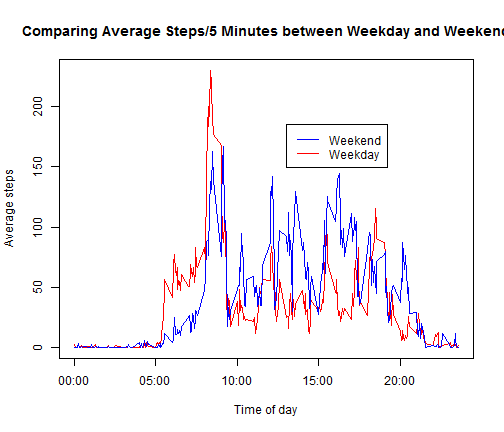
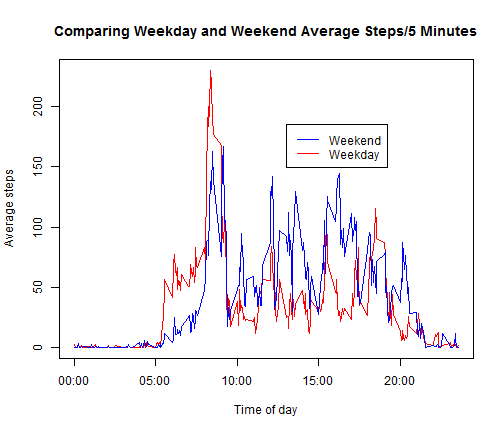
Corrected Typo in Header. Reformatted html file.

Changed region(s): [[0.0298, 0.0602, 1.0, 0.0903]]

diff --git a/PA1_template.html b/PA1_template.html
@@ -5,22 +5,10 @@
 <p>Set the working directory</p>
 <pre class="sourceCode r"><code class="sourceCode r"><span class="kw">setwd</span>(<span class="st">&quot;~/GitHub/RepData_PeerAssessment1&quot;</span>)</code></pre>
 <p>Load required libraries and set knitr and markdown options.</p>
-<pre class="sourceCode r"><code class="sourceCode r"><span class="kw">require</span>(dplyr)</code></pre>
-<pre><code>## Loading required package: dplyr
-## 
-## Attaching package: &#39;dplyr&#39;
-## 
-## The following objects are masked from &#39;package:stats&#39;:
-## 
-##     filter, lag
-## 
-## The following objects are masked from &#39;package:base&#39;:
-## 
-##     intersect, setdiff, setequal, union</code></pre>
-<pre class="sourceCode r"><code class="sourceCode r"><span class="kw">require</span>(knitr)
-<span class="kw">require</span>(rmarkdown)</code></pre>
-<pre><code>## Loading required package: rmarkdown</code></pre>
-<pre class="sourceCode r"><code class="sourceCode r">opts_chunk$<span class="kw">set</span>(<span class="dt">fig.path=</span><span class="st">&quot;figures/&quot;</span>)
+<pre class="sourceCode r"><code class="sourceCode r"><span class="kw">require</span>(dplyr)
+<span class="kw">require</span>(knitr)
+<span class="kw">require</span>(rmarkdown)
+opts_chunk$<span class="kw">set</span>(<span class="dt">fig.path=</span><span class="st">&quot;figures/&quot;</span>)
 opts_chunk$<span class="kw">set</span>(<span class="dt">echo =</span> <span class="ot">TRUE</span>) <span class="co"># Always make code visible</span>
 opts_chunk$<span class="kw">set</span>(<span class="dt">results =</span> <span class="st">&quot;asis&quot;</span>) <span class="co"># Always show results and graphs</span>
 <span class="kw">options</span>(<span class="dt">scipen =</span> <span class="dv">1</span>) <span class="co"># Turn off scientific notations for numbers</span></code></pre>
@@ -140,7 +128,7 @@ intervals.day.type &lt;-<span class="st"> </span>intervals.day.type[<span class=
 </div>
 <p>It is a bit difficult to compare the two plots. For a better comparison, combine the time series on a single plot.</p>
 <pre class="sourceCode r"><code class="sourceCode r"><span class="kw">plot</span>(intervals.day.type$intervals, intervals.day.type$weekday.means, <span class="dt">type =</span> <span class="st">&quot;l&quot;</span>, 
-    <span class="dt">col =</span> <span class="st">&quot;red&quot;</span>, <span class="dt">ylab =</span> <span class="st">&quot;Average steps&quot;</span>, <span class="dt">xlab =</span> <span class="st">&quot;Time of day&quot;</span>, <span class="dt">main =</span> <span class="st">&quot;Comparing Average Steps/5 Minutes between Weekday and Weekend&quot;</span>, 
+    <span class="dt">col =</span> <span class="st">&quot;red&quot;</span>, <span class="dt">ylab =</span> <span class="st">&quot;Average steps&quot;</span>, <span class="dt">xlab =</span> <span class="st">&quot;Time of day&quot;</span>, <span class="dt">main =</span> <span class="st">&quot;Comparing Weekday and Weekend Average Steps/5 Minutes&quot;</span>, 
     <span class="dt">xaxt =</span> <span class="st">&quot;n&quot;</span>)
 <span class="kw">axis</span>(<span class="dt">side =</span> <span class="dv">1</span>, <span class="dt">at =</span> labels.at, <span class="dt">labels =</span> labels)
 <span class="kw">lines</span>(intervals.day.type$intervals, intervals.day.type$weekend.means, <span class="dt">type =</span> <span class="st">&quot;l&quot;</span>, 

diff --git a/PA1_template.md b/PA1_template.md
@@ -16,32 +16,8 @@ Load required libraries and set knitr and markdown options.
 
 ```r
 require(dplyr)
-```
-
-```
-## Loading required package: dplyr
-## 
-## Attaching package: 'dplyr'
-## 
-## The following objects are masked from 'package:stats':
-## 
-##     filter, lag
-## 
-## The following objects are masked from 'package:base':
-## 
-##     intersect, setdiff, setequal, union
-```
-
-```r
 require(knitr)
 require(rmarkdown)
-```
-
-```
-## Loading required package: rmarkdown
-```
-
-```r
 opts_chunk$set(fig.path="figures/")
 opts_chunk$set(echo = TRUE) # Always make code visible
 opts_chunk$set(results = "asis") # Always show results and graphs
@@ -255,7 +231,7 @@ It is a bit difficult to compare the two plots. For a better comparison, combine
 
 ```r
 plot(intervals.day.type$intervals, intervals.day.type$weekday.means, type = "l", 
-    col = "red", ylab = "Average steps", xlab = "Time of day", main = "Comparing Average Steps/5 Minutes between Weekday and Weekend", 
+    col = "red", ylab = "Average steps", xlab = "Time of day", main = "Comparing Weekday and Weekend Average Steps/5 Minutes", 
     xaxt = "n")
 axis(side = 1, at = labels.at, labels = labels)
 lines(intervals.day.type$intervals, intervals.day.type$weekend.means, type = "l", 
